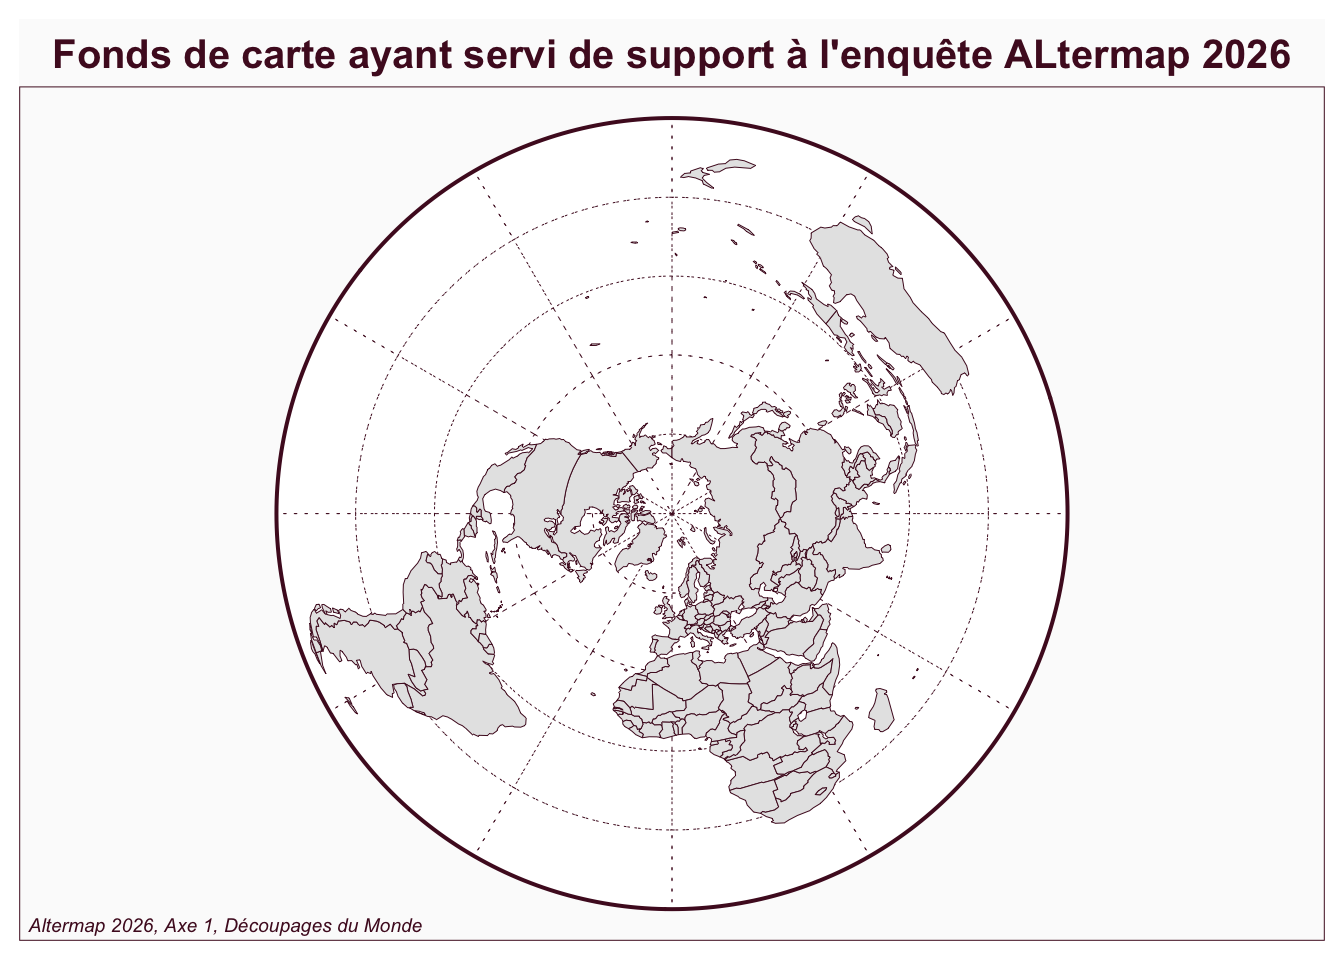
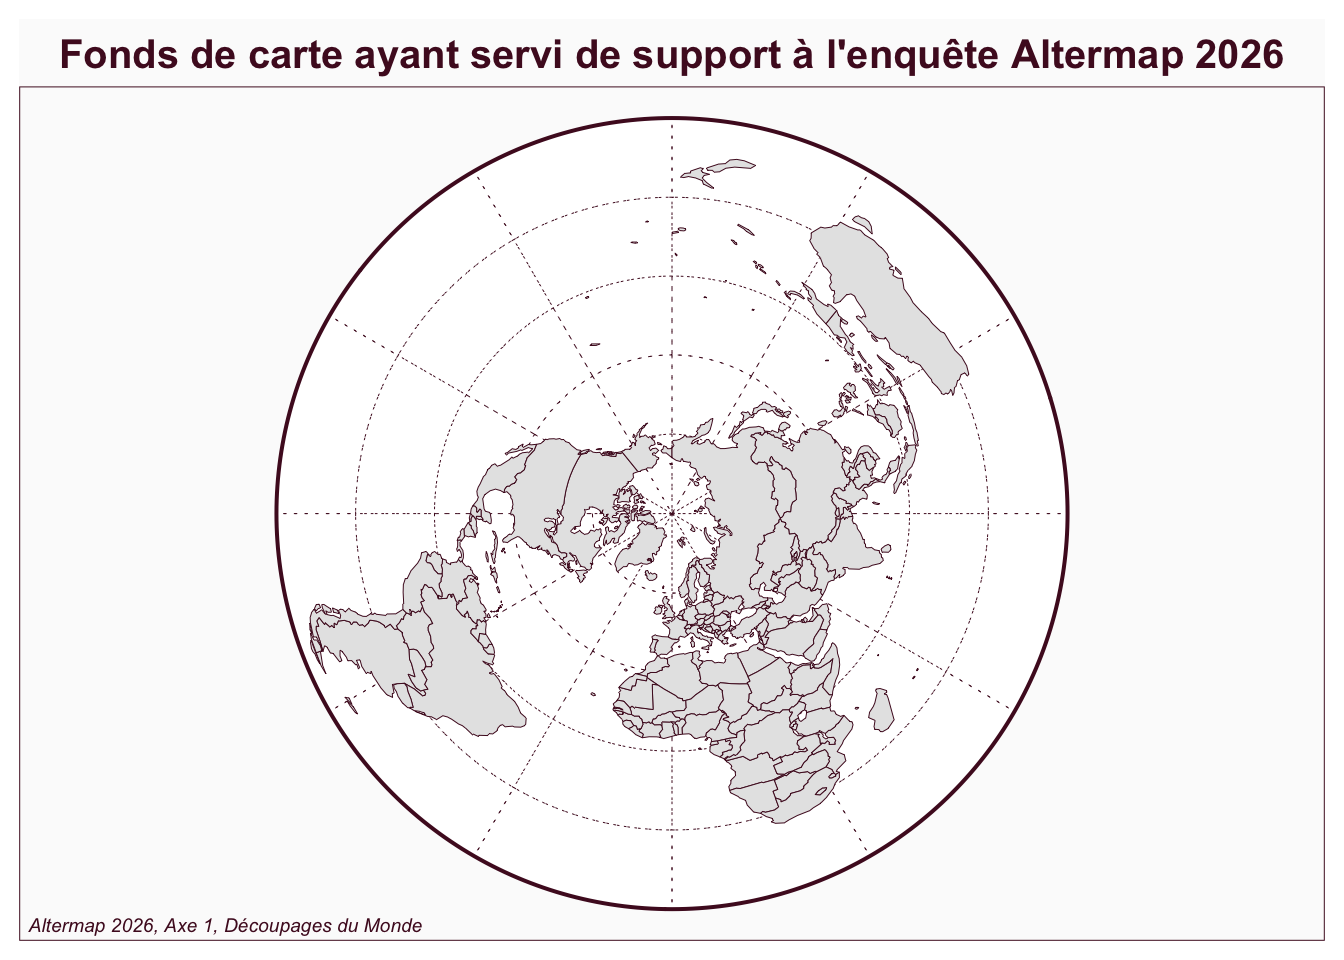
post

Changed region(s): [[0.0312, 0.0312, 0.9688, 0.0938]]

diff --git a/docs/posts.html b/docs/posts.html
@@ -413,7 +413,7 @@ window.Quarto = {
 
 <div class="quarto-listing quarto-listing-container-default" id="listing-listing">
 <div class="list quarto-listing-default">
-<div class="quarto-post image-right" data-index="0" data-categories="Q2FydGUlMjBtZW50YWxlJTJDTW9uZGUlMkNnJUMzJUE5b21hdGlxdWU=" data-listing-date-sort="1782943200000" data-listing-file-modified-sort="1783012089182" data-listing-date-modified-sort="NaN" data-listing-reading-time-sort="14" data-listing-word-count-sort="2767">
+<div class="quarto-post image-right" data-index="0" data-categories="Q2FydGUlMjBtZW50YWxlJTJDTW9uZGUlMkNnJUMzJUE5b21hdGlxdWU=" data-listing-date-sort="1782943200000" data-listing-file-modified-sort="1783057300872" data-listing-date-modified-sort="NaN" data-listing-reading-time-sort="14" data-listing-word-count-sort="2767">
 <div class="thumbnail"><a href="./posts/2026-07-02-geomatic/index.html" class="no-external">
 
 <img loading="lazy" src="./posts/2026-07-02-geomatic/img/medit_border.png" class="thumbnail-image">
